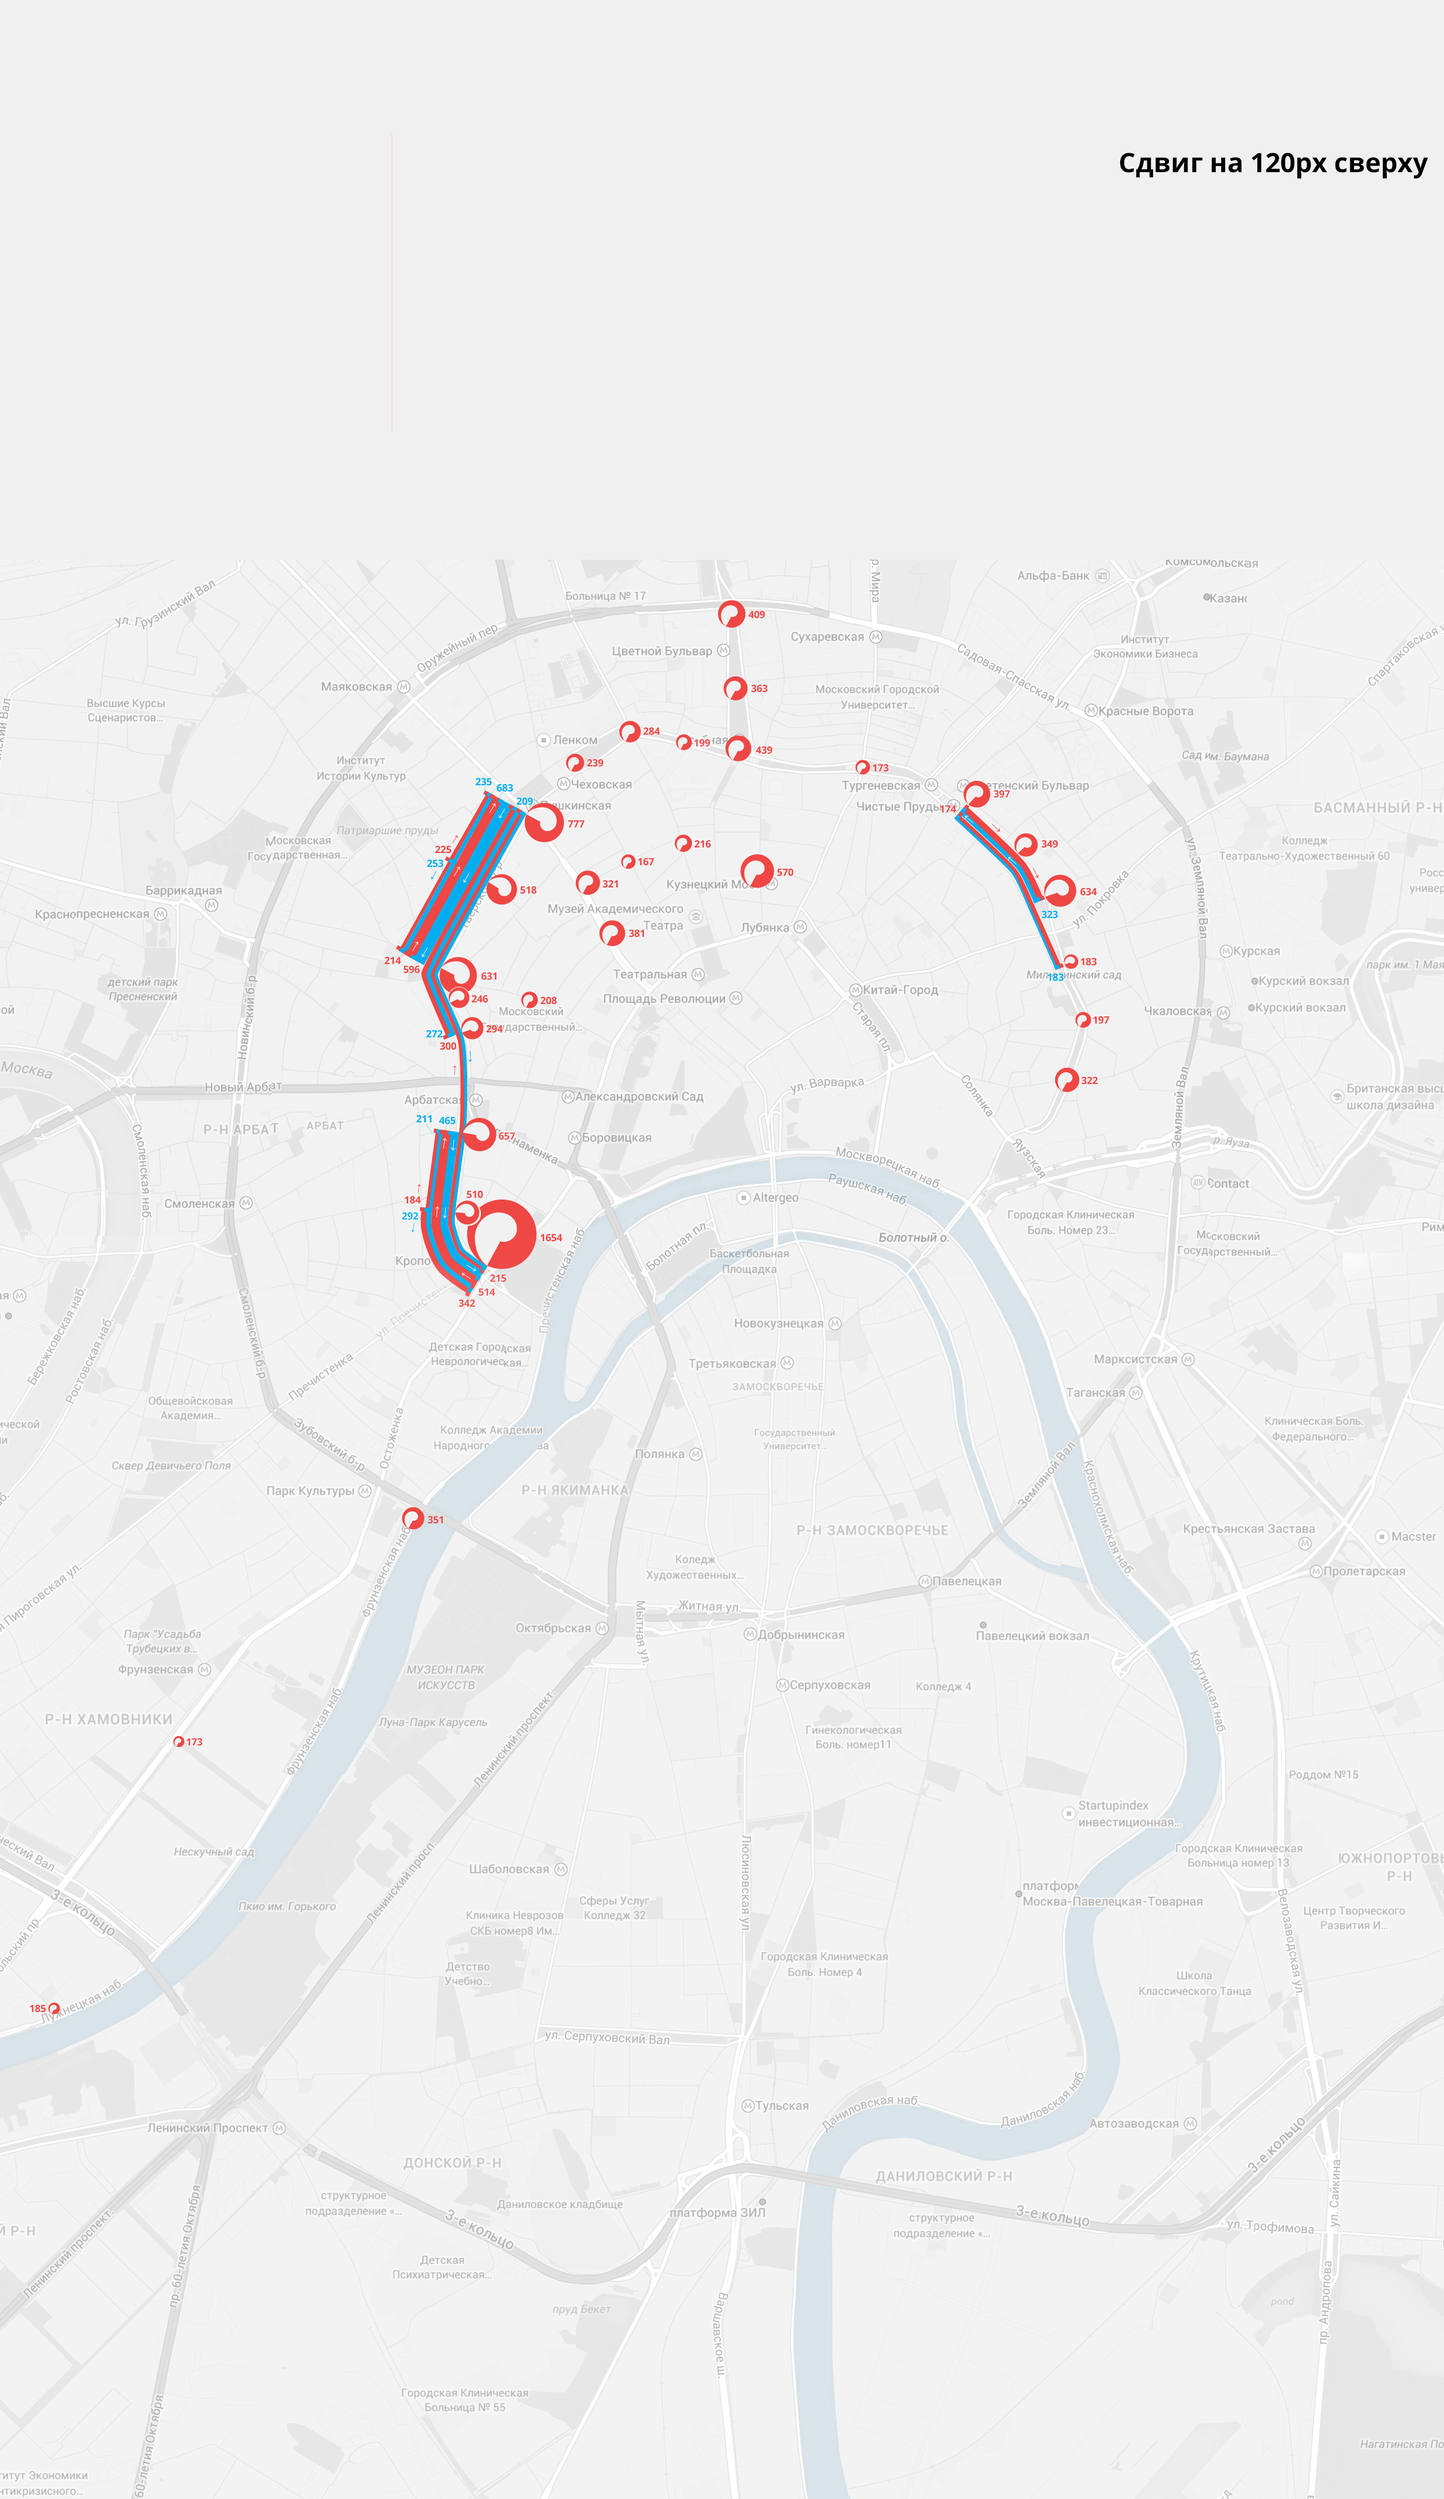
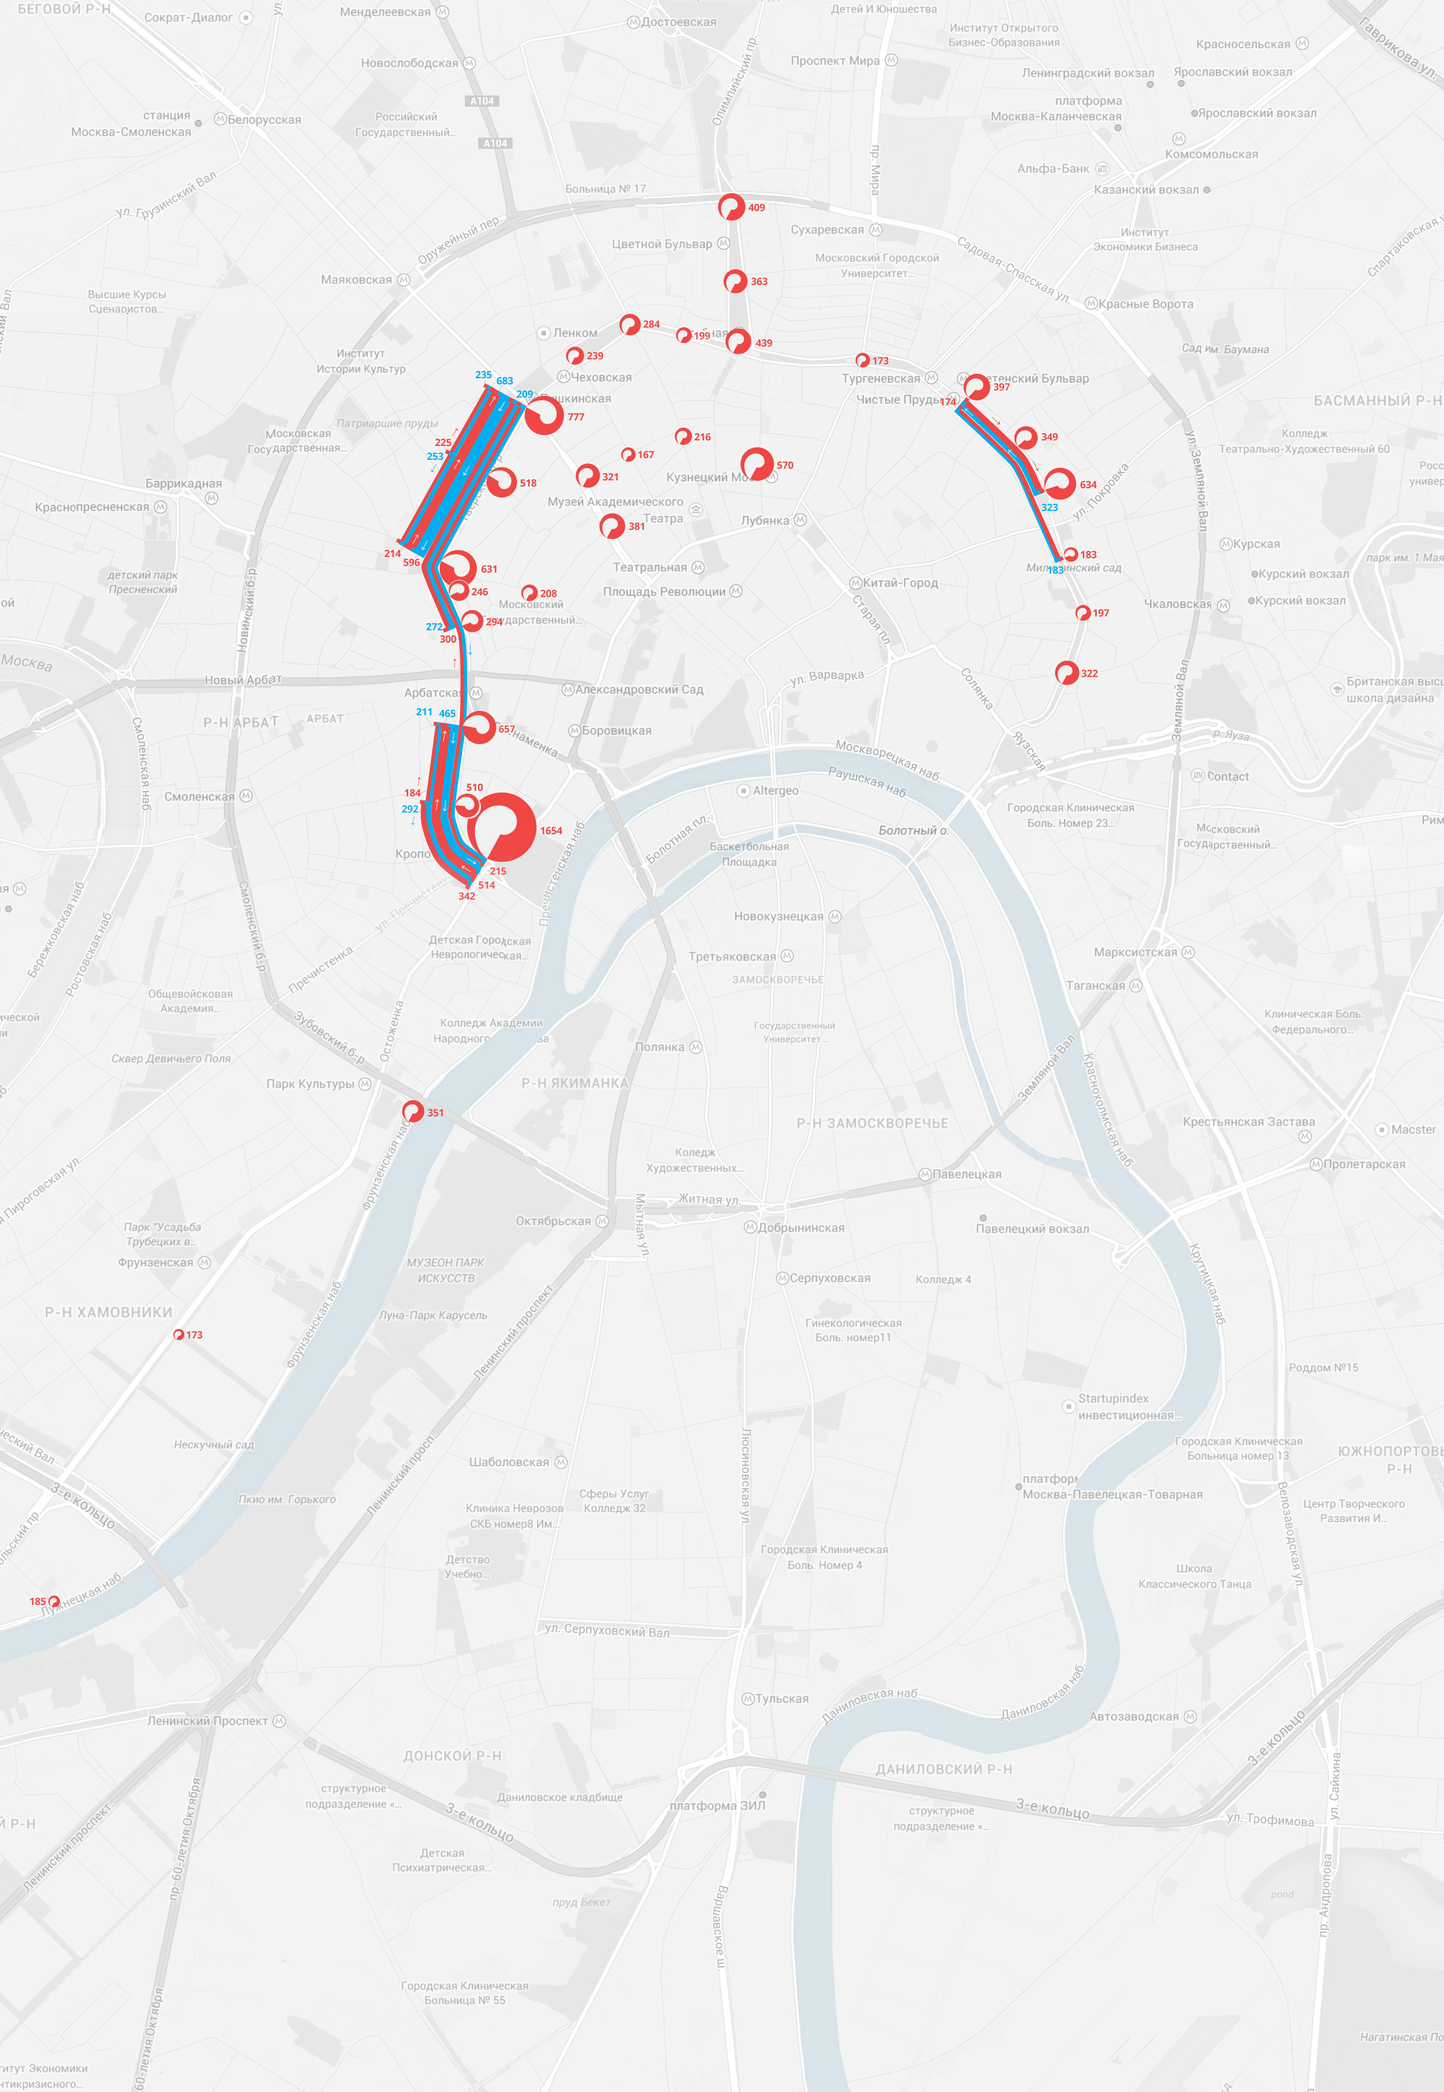
map Y-shift

diff --git a/index.html b/index.html
@@ -2,38 +2,17 @@
 <html>
 <head>
 <meta charset=utf-8 />
-<title>Веломаршруты. Самые популярные маршруты городского велопроката. Визуализация Лаборатории данных.</title>
+<title></title>
   <link rel="stylesheet" href="main.css" type="text/css" charset="utf-8"/>
   <link href='http://fonts.googleapis.com/css?family=Open+Sans:400,800&subset=latin,cyrillic-ext' rel='stylesheet' type='text/css'>
-  <link rel="shortcut icon" href="images/favicon.ico">
-  <link rel="image_src" href="images/screenshot.jpg" />
   <script src="http://code.jquery.com/jquery-1.10.1.min.js"></script>
   <!--[if lte IE 8]>
     <link href='//api.tiles.mapbox.com/mapbox.js/v1.3.1/mapbox.ie.css' rel='stylesheet'>
   <![endif]-->
-  
-  <script type="text/javascript" src="//vk.com/js/api/openapi.js?101"></script>
-
-  <script type="text/javascript">
-    VK.init({apiId: 3908612, onlyWidgets: true});
-  </script>
-
 </head>
 
 <body style="margin:0; padding:0;">
-
-    <div id="fb-root"></div>
-    <script>(function(d, s, id) {
-      var js, fjs = d.getElementsByTagName(s)[0];
-      if (d.getElementById(id)) return;
-      js = d.createElement(s); js.id = id;
-      js.src = "//connect.facebook.net/en_US/all.js#xfbml=1&appId=237838789600836";
-      fjs.parentNode.insertBefore(js, fjs);
-      }(document, 'script', 'facebook-jssdk'));
-    </script>
-    
-
-    <div class="main">
+  <div class="main">
     <script type='text/javascript'>
 
       $( document ).ready(function() {
@@ -46,25 +25,29 @@
           $(".header").css("margin-left", 20);
           $(".smallMap").css("display", "none");
           $("h1").css("font-size",30);
-          $(".after-h1").css("font-size",14);
-          $(".after-h1").css("line-height","22px");
           $(".legend").css("margin-left", cl_W-550);
-          $(".legend").css("margin-top",cl_H-337);
+          $(".legend").css("margin-top",cl_H-290);
+          if (cl_W < 520) {
+          $(".main").css({'background-image': "url(images/map-82.jpg)"});
+          } else {
+              $(".main").css({'background-image': "url(images/map-81.jpg)"});
+
+          }
+          
         } 
         else {
           $(".bike").css("display", "block");
-          $(".bike").css("margin-top", 135);
+          $(".bike").css("margin-top", 20);
           $(".bike").css("margin-left", 20);
-          $(".header").css("margin-top", 20);
+          $(".header").css("margin-top", 90);
           $(".header").css("margin-left", 20);
           $(".smallMap").css("display", "block");
           $(".smallMap").css("margin-top",cl_H-320);
           $(".smallMap").css("margin-left",20);
           $("h1").css("font-size",36);
-          $(".after-h1").css("font-size",16);
-          $(".after-h1").css("line-height","26px");
           $(".legend").css("margin-left",cl_W-550);
-          $(".legend").css("margin-top",cl_H-355);
+          $(".legend").css("margin-top",cl_H-370);
+          $(".main").css({'background-image': "url(images/map-80.jpg)"});
         }
 
       });
@@ -79,25 +62,30 @@
           $(".header").css("margin-left", 20);
           $(".smallMap").css("display", "none");
           $("h1").css("font-size",30);
-          $(".after-h1").css("font-size",14);
-          $(".after-h1").css("line-height","22px");
           $(".legend").css("margin-left", cl_W-550);
-          $(".legend").css("margin-top",cl_H-337);
+          $(".legend").css("margin-top",cl_H-290);
+          if (cl_W < 520) {
+          $(".main").css({'background-image': "url(images/map-82.jpg)"});
+          } else {
+              $(".main").css({'background-image': "url(images/map-81.jpg)"});
+
+          }
+          
         } 
         else {
+          
           $(".bike").css("display", "block");
-          $(".bike").css("margin-top", 135);
+          $(".bike").css("margin-top", 20);
           $(".bike").css("margin-left", 20);
-          $(".header").css("margin-top", 20);
+          $(".header").css("margin-top", 90);
           $(".header").css("margin-left", 20);
           $(".smallMap").css("display", "block");
           $(".smallMap").css("margin-top",cl_H-320);
           $(".smallMap").css("margin-left",20);
           $("h1").css("font-size",36);
-          $(".after-h1").css("font-size",16);
-          $(".after-h1").css("line-height","26px");
           $(".legend").css("margin-left",cl_W-550);
-          $(".legend").css("margin-top",cl_H-355);
+          $(".legend").css("margin-top",cl_H-370);
+          $(".main").css({'background-image': "url(images/map-80.jpg)"});
         }
         
       });
@@ -108,39 +96,23 @@
 
 <div class="bike" width="130" height="66"><img width="130" height="" src="images/bike.png"></div>
 <div class="header">
-    <h1>Веломаршруты</h1>
-    <p class="after-h1">Самые популярные этим летом <br>маршруты <a href="http://velobike.ru">городского велопроката</a></p>
+    <h1 style="">Веломаршруты</h1>
+    <p style="font-family: 'Open Sans', Arial, sans-serif; font-size: 16px; margin-top: 0px;">Самые популярные маршруты <br><a href="http://velobike.ru">городского велопроката</a></p>
 </div>
 
 <div class="legend">
 
-  <div class="like" style="margin-left: 110px; margin-bottom: 20px;">
-      
-      <div style="float:left;" class="fb-like" data-href="http://velobike.datalaboratory.ru/" data-width="90" data-layout="button_count" data-show-faces="false" data-send="false"></div>
-
-      <div style="float:left; margin-left: 20px;">
-        <div id="vk_like"></div>
-        <script type="text/javascript">
-        VK.Widgets.Like("vk_like", {type: "mini", height: 20});
-        </script>
-      </div>
-
-      <a href="http://velobike.datalaboratory.ru/" class="twitter-share-button" data-lang="en">Tweet</a>
-      <script>!function(d,s,id){var js,fjs=d.getElementsByTagName(s)[0];if(!d.getElementById(id)){js=d.createElement(s);js.id=id;js.src="https://platform.twitter.com/widgets.js";fjs.parentNode.insertBefore(js,fjs);}}(document,"script","twitter-wjs");</script>
-
-    </div>
-
     <div class="innerLegend">
       <div class="legContainer">
         <div class="thickness">
-          <p style="margin-bottom:2px;"><b>Поездок</b></p><p style="font-size:12px; line-height:10px; margin:0;">с 1 июня по 30 августа</p>
-          <div class="plot" height="36px" style="float:left; margin-top:8px;"><img height="36px" width="80px" src="images/thickness.png"></div>
-          <div class="plotText" width="110px" height="36px" style="float:left; font-size:10px; margin-left:5px; margin-top:18px;">1500</div>
+          <p><b>Загруженность</b></p>
+          <div class="plot" height="36px" style="float:left; margin-top:5px;"><img height="36px" width="80px" src="images/thickness.png"></div>
+          <div class="plotText" width="110px" height="36px" style="float:left; margin-left:10px; margin-top:5px;">1500<br/>поездок</div>
         </div>
         <div class="color">
           <p><b>Направление</b></p>
-          <div class="plot" height="36px" style="float:left; margin-top:8px "><img height="36px" width="35px" src="images/color.png"></div>
-          <div class="plotText" width="160px" height="36px" style="float:left;  margin-left: 10px; margin-top:8px; font-size:12px; "><span style="color: #00afec;">против</span> и <span style="color: #ef4744;">по</span><br/>часовой стрелке</div>
+          <div class="plot" height="36px" style="float:left; margin-top:5px "><img height="36px" width="35px" src="images/color.png"></div>
+          <div class="plotText" width="160px" height="36px" style="float:left; margin-left: 10px; margin-top:5px;"><span style="color: #00afec;">против</span> и <span style="color: #ef4744;">по</span><br/>часовой стрелке</div>
         </div>
         <div class="clear" style="clear:both;" width="400px"></div>
         <div class="roundabout">
@@ -149,25 +121,16 @@
         </div>
       </div>
       <div class="signature">
-        <p>Визуализация<br><a href="http://datalaboratory.ru">Лаборатории данных</a></p>
-        <p>Координатор<br/><a href="http://stepan.ru">Степан Чижов</a></p>
-        <p>Данные предоставлены <br> <a href="http://www.bm.ru">Банком Москвы</a></p>
+        Дизайн:<br/>
+        <a href="http://datalaboratory.ru">Лаборатория данных</a>
+        <br/><br/>
+        Координатор:<br/>
+        <a href="http://stepan.ru">Степан Чижов</a> <br/><br/>
+        Данные предоставлены <br> <a href="http://www.bm.ru">Банком Москвы</a>
       </div>
     </div>
   </div>
   
   </div>
-
-<script>
-  (function(i,s,o,g,r,a,m){i['GoogleAnalyticsObject']=r;i[r]=i[r]||function(){
-  (i[r].q=i[r].q||[]).push(arguments)},i[r].l=1*new Date();a=s.createElement(o),
-  m=s.getElementsByTagName(o)[0];a.async=1;a.src=g;m.parentNode.insertBefore(a,m)
-  })(window,document,'script','//www.google-analytics.com/analytics.js','ga');
-
-  ga('create', 'UA-41635147-1', 'datalaboratory.ru');
-  ga('send', 'pageview');
-
-</script>
-
 </body>
 </html>

diff --git a/main.css b/main.css
@@ -4,10 +4,10 @@
 
 .legend .innerLegend {float:left; font-family: 'Open Sans', Arial, sans-serif; font-size: 12px; width:500; height:200; background-color: rgba(248,248,248,0.8);}
 .legend .innerLegend .legContainer {width: 400; height: 140;float:left; margin-left: 20px;}
-.legend .innerLegend .legContainer .thickness {width: 200; height: 90; float:left; margin-top: 0px;}
-.legend .innerLegend .legContainer .color {width: 200; height: 90; float:left; margin-top: 0px; margin-left: 25px;}
-.legend .innerLegend .legContainer .roundabout {width: 200; height: 50; margin-top: 5px; margin-bottom: 10px;}
-.legend .innerLegend .signature {float:left; font-family: 'Open Sans', Arial, sans-serif; font-size: 12px; width:170px; height:140px;  margin-top: 0px; margin-bottom: 10px; margin-left: 40px;}
+.legend .innerLegend .legContainer .thickness {width: 200; height: 90; float:left; margin-top: 10px;}
+.legend .innerLegend .legContainer .color {width: 200; height: 90; float:left; margin-top: 10px; margin-left: 20px;}
+.legend .innerLegend .legContainer .roundabout {width: 200; height: 50; margin-top: 20px;}
+.legend .innerLegend .signature {float:left; font-family: 'Open Sans', Arial, sans-serif; font-size: 12px; width:170px; height:140px;  margin-top: 10px; margin-left: 40px;}
 
 h1 {
 	font-family: 'Open Sans', Arial, sans-serif; 
@@ -15,13 +15,6 @@ h1 {
 	font-size: 36px; 
 	margin-top:0px; 
 	margin-bottom: 0px;
-}
-
-.after-h1 {
-	font-family: 'Open Sans', Arial, sans-serif; 
-	font-size: 16px; 
-	margin-top: 0px;
-	line-height: 26px;
 }
 
 .header { 
